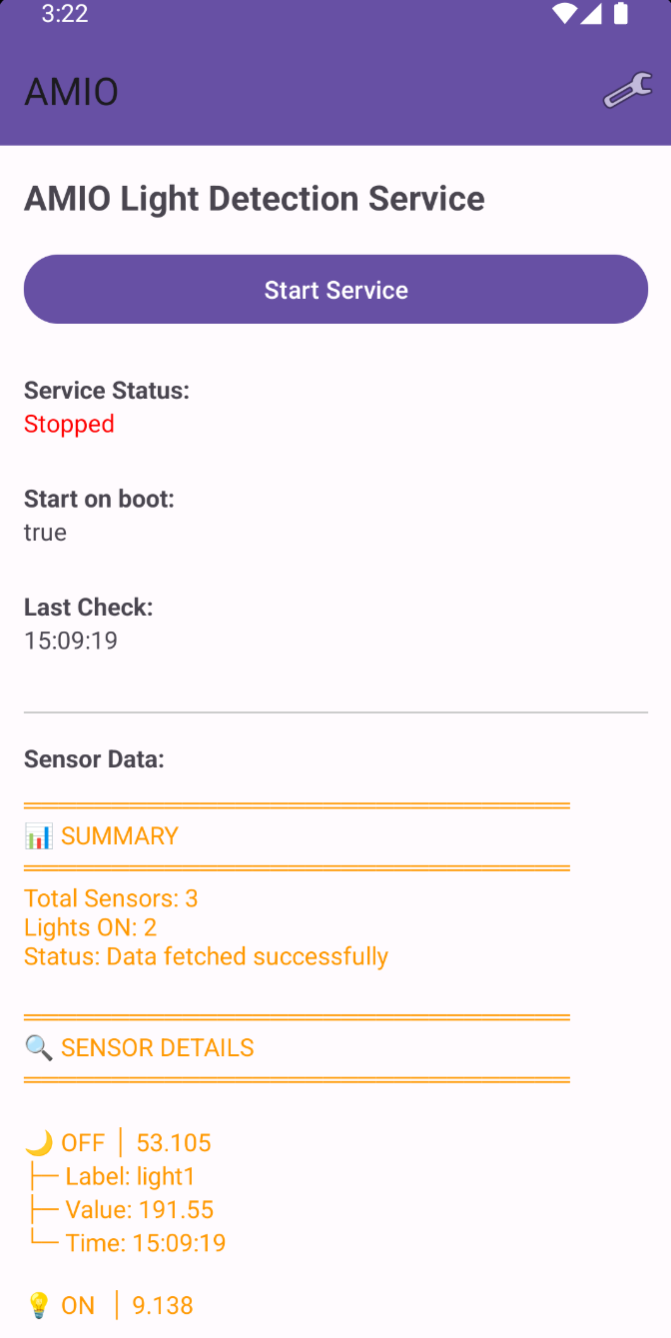
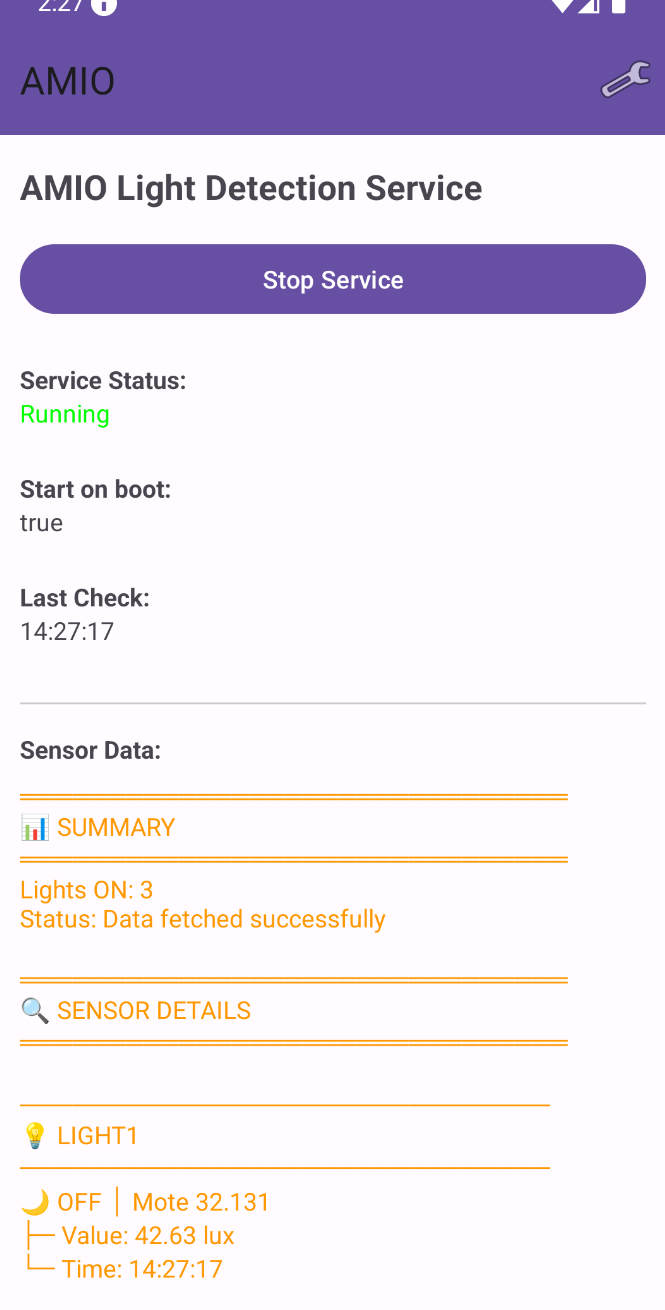
[+] readme + resources + service tiers

diff --git a/service_tiers/app.py b/service_tiers/app.py
@@ -1,0 +1,215 @@
+import asyncio
+import os
+from flask import Flask, request, jsonify
+import time
+import random
+from notificationapi_python_server_sdk import notificationapi
+
+app = Flask(__name__)
+
+# Initialize NotificationAPI
+notificationapi.init(
+    os.getenv("NOTIFICATIONAPI_CLIENT_ID"),
+    os.getenv("NOTIFICATIONAPI_CLIENT_SECRET")
+)
+
+# Configuration
+CYCLE_DURATION = 10  # seconds
+MOTES = {
+    "light1": ["9.138", "32.131", "53.105"],
+    "light2": ["9.138", "32.131", "53.105"]
+}
+
+def get_current_value(light_id):
+    """
+    Calculate the current value based on the cycle position.
+    Returns high value (200 +/- 10) or low value (50 +/- 10).
+    """
+    current_time = time.time()
+    # Determine position in cycle (0 to CYCLE_DURATION)
+    cycle_position = current_time % CYCLE_DURATION
+    
+    # First half of cycle is "up" (high values), second half is "down" (low values)
+    if light_id == "light1" and cycle_position < CYCLE_DURATION / 2:
+        # Up part: 200 +/- 10
+        base_value = 200
+        noise = random.uniform(-10, 10)
+    elif light_id == "light2" and cycle_position >= CYCLE_DURATION / 2:
+        # Up part: 200 +/- 10
+        base_value = 200
+        noise = random.uniform(-10, 10)
+
+    else:
+        # Down part: 50 +/- 10
+        base_value = 50
+        noise = random.uniform(-10, 10)
+    
+    return round(base_value + noise, 2)
+
+@app.route('/iotlab/rest/data/1/<light_id>/last', methods=['GET'])
+def get_light_data(light_id):
+    """
+    Returns mock light sensor data for the specified light_id.
+    """
+    # Validate light_id
+    if light_id not in MOTES:
+        return jsonify([])
+    
+    # Get current timestamp in milliseconds
+    current_timestamp = int(time.time() * 1000)
+    
+    # Generate data for each mote
+    data = []
+    for mote in MOTES[light_id]:
+        value = get_current_value(light_id)
+        data.append({
+            "timestamp": current_timestamp + random.randint(-100, 100),  # Small variation
+            "label": light_id,
+            "value": value,
+            "mote": mote
+        })
+    
+    return jsonify({"data": data})
+
+@app.route('/', methods=['GET'])
+def index():
+    """
+    Simple index route for health checks.
+    """
+    return jsonify({
+        "status": "running",
+        "endpoints": [
+            "/iotlab/rest/data/1/light1/last",
+            "/iotlab/rest/data/1/light2/last",
+            "/notify",
+            "/health"
+        ]
+    })
+
+
+# ===== MAILING SYSTEM ROUTES =====
+
+def build_email_subject(motes_on, motes_off):
+    """
+    Build email subject based on motes that turned on/off
+    """
+    total_changes = len(motes_on) + len(motes_off)
+
+    if total_changes == 1:
+        if motes_on:
+            return f"AMIO - Lumière allumée: {motes_on[0]}"
+        else:
+            return f"AMIO - Lumière éteinte: {motes_off[0]}"
+    else:
+        return f"AMIO - {total_changes} changements détectés"
+
+
+def build_email_html_content(motes_on, motes_off):
+    """
+    Build HTML content for the email body
+    """
+    html = ["<html><body>"]
+    html.append("<h2>AMIO - Alerte Capteurs</h2>")
+
+    if motes_on:
+        html.append("<h3 style='color: #ff9800;'>💡 LUMIÈRES ALLUMÉES</h3>")
+        html.append("<ul>")
+        for mote in motes_on:
+            html.append(f"<li>{mote}</li>")
+        html.append("</ul>")
+
+    if motes_off:
+        html.append("<h3 style='color: #4caf50;'>🌙 LUMIÈRES ÉTEINTES</h3>")
+        html.append("<ul>")
+        for mote in motes_off:
+            html.append(f"<li>{mote}</li>")
+        html.append("</ul>")
+
+    html.append("<p><small>Cet email a été envoyé automatiquement par l'application AMIO.</small></p>")
+    html.append("</body></html>")
+
+    return "".join(html)
+
+
+async def send_email_async(recipient_email, subject, html_content):
+    """
+    Send email using NotificationAPI
+    """
+    await notificationapi.send({
+        "type": os.getenv("NOTIFICATION_TYPE", "mote_update"),
+        "to": {
+            "id": recipient_email,
+            "email": recipient_email
+        },
+        "email": {
+            "subject": subject,
+            "html": html_content,
+            "senderName": os.getenv("SENDER_NAME", "AMIO System"),
+            "senderEmail": os.getenv("SENDER_EMAIL", "noreply@amio.com")
+        }
+    })
+
+
+@app.route('/notify', methods=['POST'])
+def notify():
+    """
+    Endpoint to receive motes status changes and send email notification
+    Accepts form-encoded data with comma-separated mote lists
+    """
+    try:
+        # Get form data (application/x-www-form-urlencoded)
+        recipient_email = request.form.get('recipientEmail', '').strip()
+        motes_on_str = request.form.get('motesOn', '').strip()
+        motes_off_str = request.form.get('motesOff', '').strip()
+        
+        # Validate recipient email
+        if not recipient_email:
+            return jsonify({"error": "recipientEmail is required"}), 400
+        
+        # Parse comma-separated strings into lists
+        motes_on = [m.strip() for m in motes_on_str.split(',') if m.strip()] if motes_on_str else []
+        motes_off = [m.strip() for m in motes_off_str.split(',') if m.strip()] if motes_off_str else []
+        
+        # Check if we have any changes
+        if not motes_on and not motes_off:
+            return jsonify({"error": "No changes detected"}), 400
+        
+        # Build email content
+        subject = build_email_subject(motes_on, motes_off)
+        html_content = build_email_html_content(motes_on, motes_off)
+        
+        # Send email
+        asyncio.run(send_email_async(recipient_email, subject, html_content))
+        
+        return jsonify({
+            "success": True,
+            "message": "Email sent successfully",
+            "recipientEmail": recipient_email,
+            "changes": {
+                "motesOn": motes_on,
+                "motesOff": motes_off
+            }
+        }), 200
+        
+    except Exception as e:
+        return jsonify({"error": str(e)}), 500
+
+
+@app.route('/health', methods=['GET'])
+def health():
+    """
+    Health check endpoint
+    """
+    return jsonify({"status": "healthy"}), 200
+
+if __name__ == '__main__':
+    # Validate required environment variables for mailing system
+    required_vars = ["NOTIFICATIONAPI_CLIENT_ID", "NOTIFICATIONAPI_CLIENT_SECRET"]
+    missing_vars = [var for var in required_vars if not os.getenv(var)]
+    
+    if missing_vars:
+        print(f"WARNING: Missing environment variables for mailing system: {', '.join(missing_vars)}")
+        print("Mailing functionality will not work without these variables.")
+    
+    port = int(os.getenv('PORT', 8000))
+    app.run(host='0.0.0.0', port=port, debug=os.getenv('DEBUG', 'False').lower() == 'true')

diff --git a/README.md b/README.md
@@ -17,6 +17,9 @@ L'application permet d'afficher en temps réel l'état de motes IoT (capteurs) e
 
 ![general app view](resources/sensors.png)
 
+![general app view](resources/errors.png)
+
+
 
 #### Description
 L'application affiche en direct l'état des motes IoT récupérées depuis un serveur API. Lorsque le service est activé, l'application effectue des appels périodiques à l'API pour récupérer les données des capteurs et met à jour l'interface utilisateur en temps réel.
@@ -40,32 +43,17 @@ L'application affiche en direct l'état des motes IoT récupérées depuis un se
     - `startPeriodicFetch()` : Configure le timer pour les appels périodiques
     - `broadcastSensorState(SensorState state)` : Diffuse les données aux composants intéressés
 
-**`SensorFetchManager.java`**
-- Gestionnaire des appels réseau vers l'API
-- Fonctions principales :
-    - `fetchSensorData(String serverUrl, FetchCallback callback)` : Effectue la requête HTTP GET vers le serveur
-    - Interface `FetchCallback` : Gère les réponses (succès ou erreur)
 
-**`SensorState.java`**
+**`LightMoteState.java`**
 - Modèle de données représentant l'état d'un capteur
 - Contient les informations : `moteid`, `state`, `timestamp`
 - Fonctions principales :
     - `fromJson(String json)` : Parse les données JSON de l'API
     - `toJson()` : Sérialise l'état en JSON
 
-**`SensorDataHelper.java`**
-- Classe utilitaire pour la gestion des données des capteurs
-- Fonctions principales :
-    - `saveSensorState(Context, SensorState)` : Sauvegarde l'état actuel
-    - `loadSensorState(Context)` : Charge le dernier état sauvegardé
-    - `hasStateChanged(SensorState, SensorState)` : Détecte les changements d'état
-
 **`ServiceBroadcastReceiver.java`**
 - Récepteur des broadcasts du service
 - Permet la communication entre le service et l'activité principale
-
-
-
 ---
 
 ### 2. Page de Settings et Stockage des Données
@@ -206,9 +194,6 @@ L'application permet de configurer dynamiquement l'URL du serveur API depuis leq
 - Lit l'URL configurée depuis les SharedPreferences
 - Utilise cette URL pour les appels API via `SensorFetchManager`
 
-**`SensorFetchManager.java`**
-- Effectue les requêtes HTTP vers l'URL configurée
-- Gère les erreurs de connexion et les timeouts
 
 #### MockAPI
 
@@ -238,6 +223,12 @@ L'utilisateur peut activer dans les paramètres l'option qui permet de démarrer
 ##### `ServiceBroadcastCallback.java`
 - Interface callback pour la communication entre composants
 - Permet de notifier les changements d'état aux activités
+
+---
+
+## Services tiers
+
+Le code du système web qui gère les envois de mail et le mock api est dans "service_tiers", pour lancer le système il suffit de `docker compose up` dedans.
 
 ---
 
